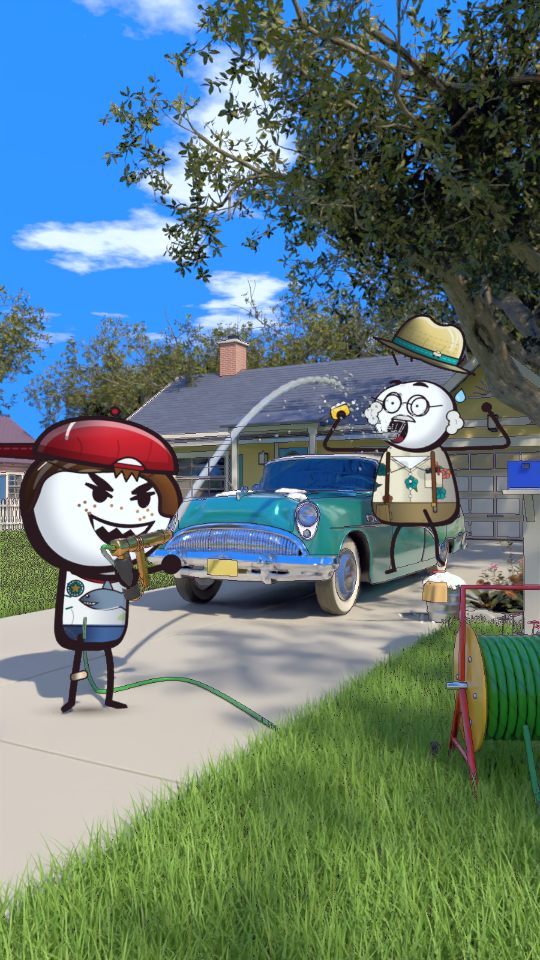
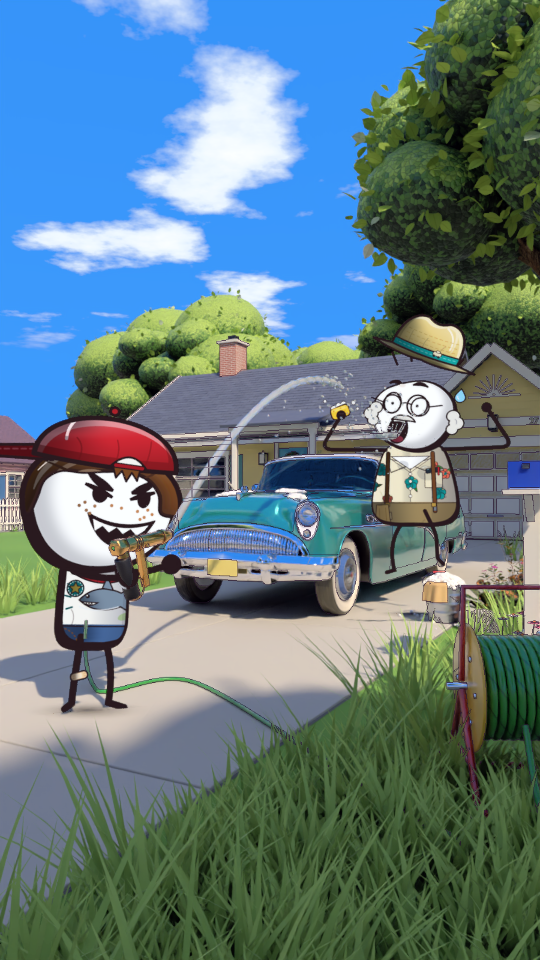
Style test v2: library Rick tree and grass (2.2 M triangles instead of 32 M, 264 s instead of 378 s)
Claude-Session: https://claude.ai/code/session_01DrjR3Ltb34YxYG9MboPX6s

diff --git a/episodes/_style_test/STATE.md b/episodes/_style_test/STATE.md
@@ -61,3 +61,15 @@ Mailbox moved to the left edge (no blockout re-render; LAYOUT re-run). Bike is o
 5. Water leaving a card-held nozzle is hidden by the card when it heads into depth. Fix: split the card at the knees, push the upper part
    back along the lens rays (scale about the camera). Guard: zoom the nozzle area. Proof: prev/asm3 vs asm4.
 6. Appending a second collection that holds the same objects duplicates them (.001). Fix: read names, strip suffixes, delete the copies.
+
+## Round 4: LIBRARY nature (CB_RULES 3 point 1b + THE ASSET LIBRARY)
+- Set's Poly Haven trees (hero + 13 far, 1.07 M tris each x2), lawn_hair (973k strands) and grass_near_blades deleted in assemble.py;
+  library rick_tree (yard tree near, 22 clumps, seed 8, clump_var .55-1.6; 13 far trees lod mid) + rick_grass (lawn_material on lawn_soil,
+  tufts: lens band 1.0-2.6 m h .2, both drive edges, trunk ring, fence; blade colours root #5e9a28 tip #b0d84c).
+- Lawn/blade bounce greyed for non-camera rays (Light Path -> saturation .2); sky fill #a6b6f2 (was #b4c3f0).
+- Water: opaque blue-white core tube on the first 0.42 m; hose ends along the lens ray behind the back fist, nozzle built separately (no loop).
+- Rendered tris 32 M -> 2.22 M. Final 1080x1920 64 spp: render 378 s -> 264 s, lines 12 s -> 2 s, wall 474 s -> 361 s. Preview 38 s -> 19.5 s.
+- Final numbers: p1 .070 p50 .457 p99 .994 mean .456 contrast .209 sat .443 shadows .152/.169/.134 (DAY .061/.467/.966/.480/.208/.381).
+- Weak: shadows metric still green (darkest pixels = grass/tree undersides); drive shade .49/.49/.52 (recipe #898d9a .54/.55/.60);
+  a short gap remains where the stream crosses the white face edge; far trees read as round puffs (no trunks seen); lens tufts darker than lawn.
+- Library: library/trees/rick_tree.py got an optional clump_var parameter (default unchanged), noted in library/trees/STATE.md.

diff --git a/library/trees/STATE.md b/library/trees/STATE.md
@@ -9,3 +9,4 @@ Weak: crown lit tops less yellow than Rick's; some edge-on cards pale blue-grey;
 Open: card translucency/fresnel test; optional dapple holes; GLB export test into the three.js kit.
 Round 2 (lead notes): smooth puffy denser clumps, cards half size x~3 count over whole outer surface, cells .075 m, card translucency = leaf colour x.5, spec 0.
   Tris near 66-84k, mid 35-45k, far 2.7k; 9-10.5 s per panel. Weak: clumps a bit topiary-regular; few light-grey cards from below.
+Round 3 (look-finisher, style test, 2026-11-21): make_tree(..., clump_var=(min, max)) added (default .85-1.25 unchanged); .55-1.6 gives a less hedge-like crown.
